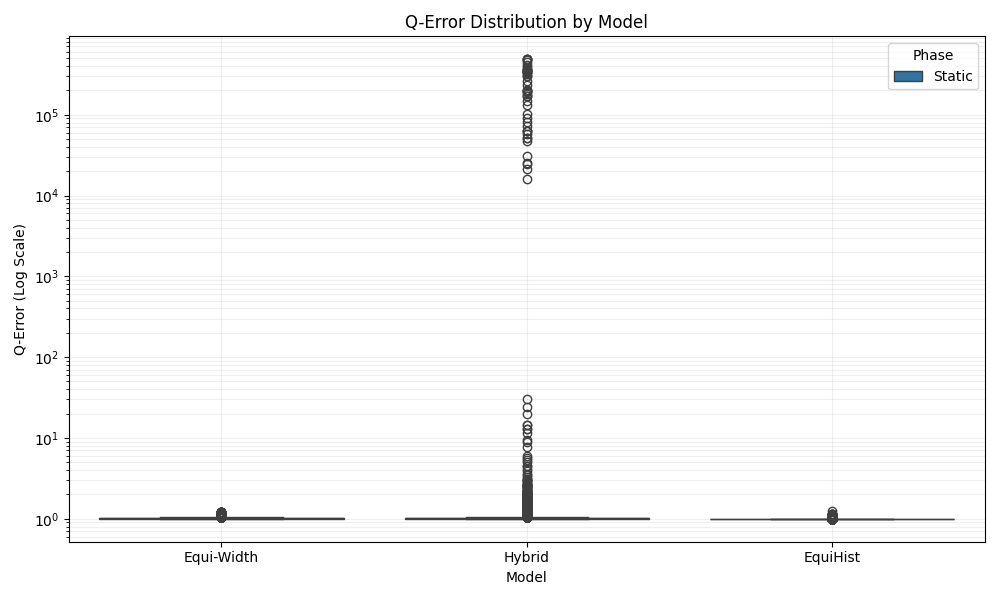
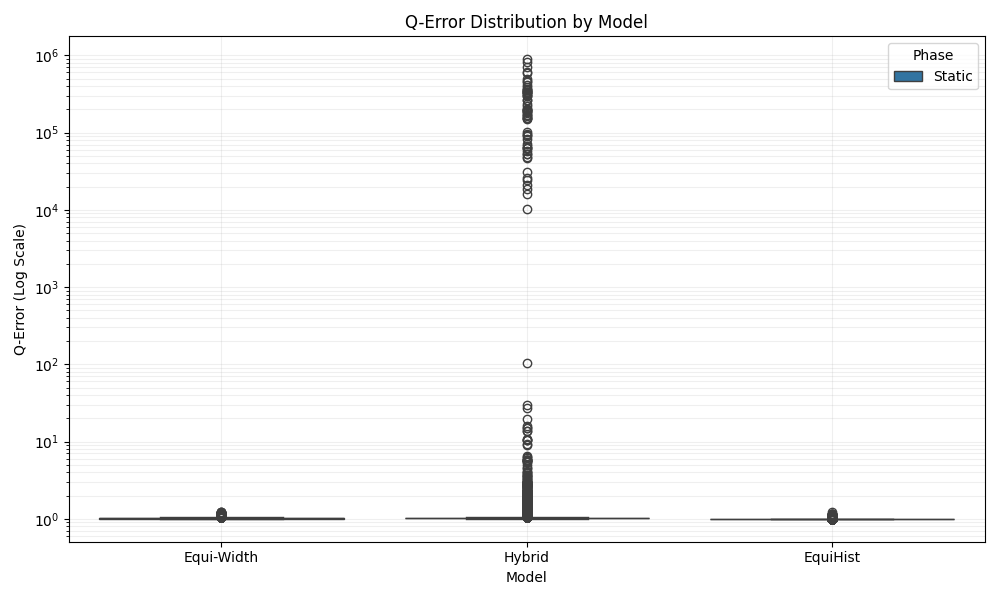
workload: enhance workload generation with max_width parameter and narrow workload support

diff --git a/models.py b/models.py
@@ -7,19 +7,53 @@ from sklearn.linear_model import Ridge
 from sklearn.preprocessing import PolynomialFeatures
 from sklearn.pipeline import make_pipeline
 from sklearn.neural_network import MLPRegressor
+from sklearn.tree import DecisionTreeRegressor
 
-class LogModelWrapper:
+class FourierFeatureMapper:
     """
-    Wraps a model (like MLP) to predict in Log-Space.
-    Trained on log1p(y), so predict must return expm1(pred).
+    Maps scalar input x to high-frequency sinusoids (Positional Encoding).
+    Allows MLP to learn sharp transitions/spikes.
     """
-    def __init__(self, model):
+    def __init__(self, num_bands: int = 10, max_freq: float = 1024.0):
+        self.num_bands = num_bands
+        # Log-spaced frequencies from 1 to max_freq
+        self.freqs = np.logspace(0, np.log10(max_freq), num=num_bands, base=10)
+        
+    def transform(self, X: np.ndarray) -> np.ndarray:
+        # X shape: (N, 1)
+        # Ensure X is numpy array
+        X = np.asarray(X, dtype=np.float64)
+        
+        # log(x) feature to help with power law distributions (Zipf)
+        # Use log(x + eps) to expand the "head" of the distribution.
+        # x=0 -> log(1e-7) ~ -16. x=0.0002 -> log(2e-4) ~ -8.
+        # This gives the MLP ~8 units of space to fit the jump between x=0 and x=1.
+        X_log = np.log(X + 1e-7)
+        
+        # Output shape: (N, 2 + 2 * num_bands)
+        
+        # 1. Original X and Log X
+        features = [X, X_log]
+        
+        # 2. Sin/Cos for each band
+        for freq in self.freqs:
+            scaled = X * freq * np.pi 
+            features.append(np.sin(scaled))
+            features.append(np.cos(scaled))
+            
+        return np.hstack(features)
+
+class FourierModelWrapper:
+    """
+    Wraps an MLP to auto-encode inputs using Fourier Features before prediction.
+    """
+    def __init__(self, model, mapper):
         self.model = model
-    
+        self.mapper = mapper
+        
     def predict(self, X):
-        pred_log = self.model.predict(X)
-        pred = np.expm1(pred_log)
-        return np.maximum(pred, 0) # Clamp negative values
+        X_fourier = self.mapper.transform(X)
+        return self.model.predict(X_fourier)
 
 
 # -----------------------------------------------------------------------------
@@ -234,8 +268,23 @@ class HybridEstimator:
             b = self.buckets[i]
             rows[i] = [] 
             if b.count == 0: continue
-            n_samples = max(points_per_bucket, 200) # Increased sample size for stability (was 50)
-            xs = np.sort(rng.integers(b.lo, b.hi + 1, size=n_samples))
+            if b.count == 0: continue
+            
+            # Start with random uniform samples
+            n_samples = max(points_per_bucket, 200) 
+            xs = rng.integers(b.lo, b.hi + 1, size=n_samples)
+            
+            # CRITICAL: Always include boundaries and near-boundary points
+            # For Zipf/Skewed data, the CDF jumps massively at lo, lo+1, etc.
+            # If we don't sample these, the model learns a smooth line that misses the jump.
+            edge_points = np.array([
+                b.lo, min(b.hi, b.lo + 1), min(b.hi, b.lo + 2), min(b.hi, b.lo + 3), # Top heavy hitters
+                b.hi, max(b.lo, b.hi - 1), max(b.lo, b.hi - 2)
+            ])
+            xs = np.concatenate([xs, edge_points])
+            xs = np.unique(xs) # Remove duplicates
+            xs = np.sort(xs)
+            
             width = b.hi - b.lo + 1
             b_lo_idx = b.lo - mn
             base_cnt = ps[b_lo_idx - 1] if b_lo_idx > 0 else 0
@@ -257,6 +306,8 @@ class HybridEstimator:
                 
             X = np.array([r.x_norm for r in rlist]).reshape(-1, 1)
             y = np.array([r.y_cdf for r in rlist])
+            
+
             
             # --- Adaptive Selection ---
             candidates = []
@@ -300,22 +351,32 @@ class HybridEstimator:
             except Exception:
                 pass 
             
-            # 5. Log-Space Neural Network (Deep Learning for Power Laws)
-            mdl_log_mlp = MLPRegressor(hidden_layer_sizes=(16, 8), activation='relu', solver='lbfgs', max_iter=500, random_state=42)
+            # 5. Fourier Neural Network (Positional Encoding for High Frequency)
+            # ... (Existing code kept below, but I will insert Tree before or after)
+            
+
+            
+
+
+
+            # 5. Fourier Neural Network (Positional Encoding for High Frequency)
+            # Solves the Zipf problem by mapping input x to high-freq sinusoids
+            # Gamma(x) = [sin(2^0 pi x), cos(2^0 pi x), ..., sin(2^k pi x), cos(2^k pi x)]
             try:
-                # Transform targets to Log-Space: y -> log(y + 1)
-                y_log = np.log1p(y)
-                mdl_log_mlp.fit(X, y_log)
+                # B = 10 frequency bands (up to 2048x frequency)
+                # Max freq increased to better catch sharp edges
+                mapper = FourierFeatureMapper(num_bands=12, max_freq=2048.0)
+                X_fourier = mapper.transform(X)
                 
-                # Predict in Log-Space
-                y_pred_log = mdl_log_mlp.predict(X)
+                # Larger network to allow "memorization" of the sharp step
+                mdl_fourier_mlp = MLPRegressor(hidden_layer_sizes=(64, 32), activation='relu', solver='lbfgs', max_iter=1000, random_state=42, alpha=0.00001)
+                mdl_fourier_mlp.fit(X_fourier, y)
                 
-                # Inverse Transform: y_pred -> exp(y_log) - 1
-                y_pred_log_mlp = np.expm1(y_pred_log)
-                y_pred_log_mlp = np.maximum(y_pred_log_mlp, 0)
+                y_pred_f = mdl_fourier_mlp.predict(X_fourier)
+                mse_f = np.mean((y - y_pred_f)**2)
                 
-                mse_log_mlp = np.mean((y - y_pred_log_mlp)**2)
-                candidates.append((mse_log_mlp * 1.5, "log_mlp", mdl_log_mlp))
+                # Reduced penalty for Fourier MLP to encourage its selection on difficult buckets
+                candidates.append((mse_f * 1.05, "fourier_mlp", (mdl_fourier_mlp, mapper)))
             except Exception:
                 pass
             
@@ -324,8 +385,10 @@ class HybridEstimator:
             best_model_name = best_candidate[1]
             best_model_obj = best_candidate[2]
             
-            if best_model_name == "log_mlp":
-                best_model = LogModelWrapper(best_model_obj)
+            if best_model_name == "fourier_mlp":
+                # Tuple (model, mapper)
+                model, mapper = best_model_obj
+                best_model = FourierModelWrapper(model, mapper)
             else:
                 best_model = best_model_obj
                 
@@ -348,6 +411,7 @@ class HybridEstimator:
         cdf_hi = self._predict_local_cdf(self.models.get(b_idx), (hi - b.lo) / w)
         prev = lo - 1
         cdf_lo = 0.0 if prev < b.lo else self._predict_local_cdf(self.models.get(b_idx), (prev - b.lo) / w)
+        
         return max(0.0, cdf_hi - cdf_lo) * b.count
 
 # -----------------------------------------------------------------------------

diff --git a/debug_zipf.py b/debug_zipf.py
@@ -1,0 +1,82 @@
+import numpy as np
+import time
+from models import HybridEstimator, Bucket, RangeQuery
+
+def debug_zipf():
+    print("Generating 100k Zipf Data settings...")
+    # Use same settings as main.py but smaller
+    # mn=1, mx=100000
+    N = 100000
+    # Zipf generation
+    # a=1.1 to be safe (a=1.0 is strictly not defined in numpy, needs >1)
+    a = 1.1 
+    data = np.random.zipf(a, N)
+    # Clip to reasonable range to prevent OOM
+    data = np.clip(data, 1, N) # Clip to unique values = N (worst case)
+    
+    mn = data.min()
+    mx = data.max()
+    print(f"Data Range: {mn} - {mx}")
+    print(f"Top 5 values: {data[:5]}")
+    
+    # Calculate True Frequencies
+    freq = np.bincount(data, minlength=mx+1)
+    # freq[0] is count of 0 (which is 0 for zipf). Start from mn.
+    # Adjust freq to be 0-indexed relative to mn?
+    # models.py expects freq array where freq[i] is count of (mn + i)
+    # So we slice freq[mn:]
+    freq = freq[mn:]
+    
+    print(f"Freq[0] (Count of {mn}): {freq[0]}")
+    print(f"Freq[1] (Count of {mn+1}): {freq[1]}")
+    
+    # Create Buckets (Simple Fixed Width for Replicability)
+    # Create 10 bins.
+    # Bucket 0: [mn, mn+9]
+    # ...
+    bins = 10
+    w = int(np.ceil((mx - mn + 1) / bins))
+    buckets = []
+    curr = mn
+    for _ in range(bins):
+        end = min(mx, curr + w - 1)
+        cnt = np.sum(freq[curr-mn : end-mn+1])
+        buckets.append(Bucket(curr, end, int(cnt)))
+        curr = end + 1
+        if curr > mx: break
+        
+    print(f"Created {len(buckets)} buckets.")
+    print(f"Bucket 0: {buckets[0]}")
+    
+    # Initialize Hybrid
+    hybrid = HybridEstimator(buckets)
+    
+    # Train
+    print("Training Hybrid...")
+    rng = np.random.default_rng(42)
+    hybrid.train(freq, mn, points_per_bucket=200, rng=rng)
+    
+    # Predict
+    print("\n--- Prediction Checks ---")
+    
+    # Check [1, 1] (Head)
+    q_head = RangeQuery(mn, mn)
+    pred_head = hybrid.predict(q_head)
+    true_head = freq[0]
+    print(f"Query [{mn}, {mn}]: True={true_head}, Pred={pred_head:.2f}, Error={abs(true_head - pred_head)}")
+    
+    # Check [1, 2]
+    q_head2 = RangeQuery(mn, mn+1)
+    pred_head2 = hybrid.predict(q_head2)
+    true_head2 = freq[0] + freq[1]
+    print(f"Query [{mn}, {mn+1}]: True={true_head2}, Pred={pred_head2:.2f}, Error={abs(true_head2 - pred_head2)}")
+    
+    # Check Tail
+    tail_val = (mn + mx) // 2
+    q_tail = RangeQuery(tail_val, tail_val)
+    pred_tail = hybrid.predict(q_tail)
+    true_tail = freq[tail_val - mn]
+    print(f"Query Tail [{tail_val}, {tail_val}]: True={true_tail}, Pred={pred_tail:.2f}")
+
+if __name__ == "__main__":
+    debug_zipf()
